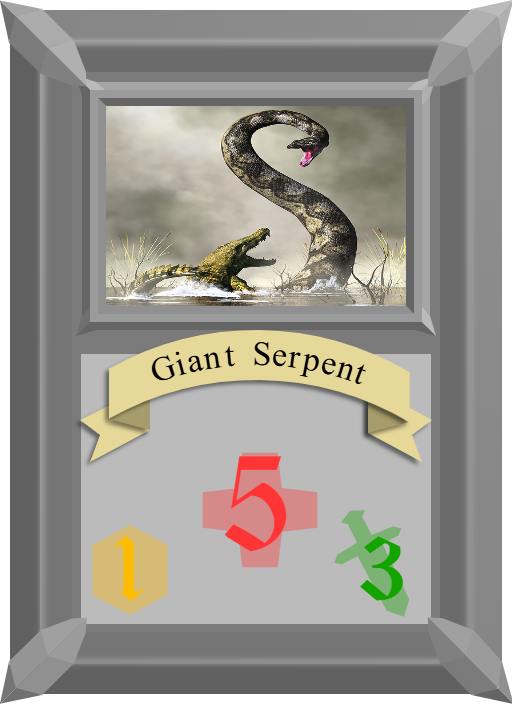
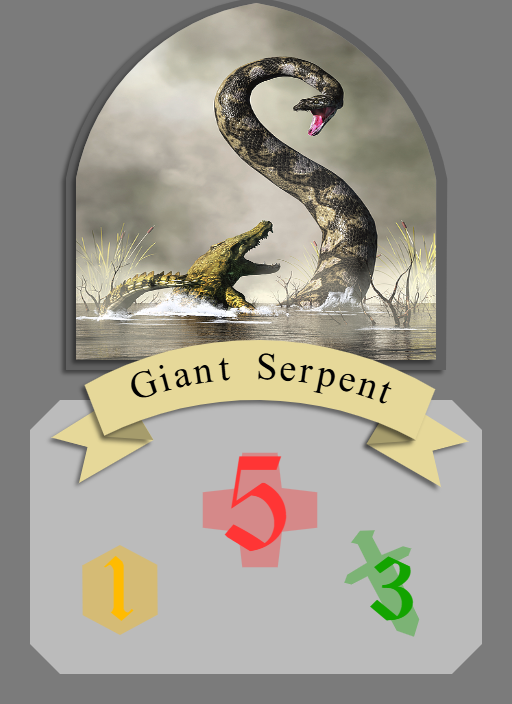
added logic to throw cards in the table in the server and overall texture and geometry updates

diff --git a/backend/server.js b/backend/server.js
@@ -66,12 +66,6 @@ async function verifyToken(req, res, next) {//currently unused
 
 
 
-let opponentsQueue = []
-
-let activeMatches = []
-
-
-
 expressServer.post('/login/validatefields/newaccount', async (req, res) => {
     try {
         let messages = []
@@ -175,6 +169,10 @@ expressServer.post('/login/validatefields', async (req, res) => {
 
 
 
+let opponentsQueue = []
+
+let activeMatches = []
+
 function generateCardUuid() {
     return `${activeMatches.length}-${Date.now() + Math.round(Math.random() * 1000000)}-${Math.round(Math.random() * 100)}`
 }
@@ -200,24 +198,40 @@ socketServer.on('connection', (client) => {
 
         if (opponentsQueue.length >= 2) {
             const playersIds = [opponentsQueue.shift(), opponentsQueue.shift()]
+            const matchId = `match-${Date.now()}-${Math.round(Math.random() * 100)}`
             const playersHandCards = [
-                { player: playersIds[0].id, card_id: 'giant_serpent', uuid: generateCardUuid() },
-                { player: playersIds[0].id, card_id: 'wendigo', uuid: generateCardUuid() },
-                { player: playersIds[0].id, card_id: 'shadow_demon', uuid: generateCardUuid() },
-                { player: playersIds[1].id, card_id: 'giant_serpent', uuid: generateCardUuid() },
-                { player: playersIds[1].id, card_id: 'wendigo', uuid: generateCardUuid() },
-                { player: playersIds[1].id, card_id: 'shadow_demon', uuid: generateCardUuid() },
+                { player: playersIds[0].id, card_id: 'giant_serpent', uuid: generateCardUuid(), mana_cost: 1 },
+                { player: playersIds[0].id, card_id: 'wendigo', uuid: generateCardUuid(), mana_cost: 1 },
+                { player: playersIds[0].id, card_id: 'shadow_demon', uuid: generateCardUuid(), mana_cost: 2 },
+                { player: playersIds[1].id, card_id: 'giant_serpent', uuid: generateCardUuid(), mana_cost: 1 },
+                { player: playersIds[1].id, card_id: 'wendigo', uuid: generateCardUuid(), mana_cost: 1 },
+                { player: playersIds[1].id, card_id: 'shadow_demon', uuid: generateCardUuid(), mana_cost: 2 },
             ]
 
             activeMatches.push(
                 {
-                    current_turn_player_id: playersIds[Math.round(Math.random())],
-                    players_hand_cards: playersHandCards,
-                    players_ids: playersIds,
-                    players_lifes: [10, 10],
-                    players_mana_levels: [1, 1],
-                    players_table_cards: null,
-                    match_id: `match-${Date.now()}-${Math.round(Math.random() * 100)}`,
+                    players: [
+                        {
+                            id: playersIds[0].id,
+                            socketId: playersIds[0].socketId,
+                            nickname: playersIds[0].nickname,
+                            life: 10,
+                            mana_level: 1,
+                            hand_cards: playersHandCards.filter(card => card.player == playersIds[0].id),
+                            table_cards: [],
+                        },
+                        {
+                            id: playersIds[1].id,
+                            socketId: playersIds[1].socketId,
+                            nickname: playersIds[1].nickname,
+                            life: 10,
+                            mana_level: 1,
+                            hand_cards: playersHandCards.filter(card => card.player == playersIds[1].id),
+                            table_cards: [],
+                        }
+                    ],
+                    current_turn_player: Math.round(Math.random()),
+                    match_id: matchId,
                     start_time: (new Date()).toISOString(),
                     total_turns_count: 0
                 }
@@ -252,6 +266,33 @@ socketServer.on('connection', (client) => {
     })
 
     client.on('move_request', (request) => {
+        const requestMatch = activeMatches.find(match => match.players.some(player => player.socketId == client.id))
+
+        try {
+            if (requestMatch) {
+                const player = requestMatch.players.find(player => player.socketId == client.id)
+                const card = player.hand_cards.find(card => card.uuid == request.card.uuid)
+
+                if (request.action == 'throw_onto_table') {
+                    if (player.mana_level >= card.mana_cost) {
+                        socketServer.to(player.socketId).emit('card_update', { uuid: card.uuid })
+
+                        player.table_cards.push(card)
+                        player.hand_cards.splice(player.hand_cards.indexOf(card), 1)
+                    }
+                    else {
+                        client.emit('chat', { sender: 'Server', color: '#ffee00', text: 'You dont have enough mana' })
+                    }
+                }
+            }
+            else {
+                client.emit('chat', { sender: 'Server', color: '#ffee00', text: 'You are not battling with anyone' })
+            }
+        }
+        catch (error) {
+            client.emit('chat', { sender: 'Server', color: '#ff5500', text: `unexpected error in the move request channel: ${error}` })
+            console.log(error)
+        }
     })
 
 

diff --git a/frontend/app/game/socket_channels.ts b/frontend/app/game/socket_channels.ts
@@ -1,15 +1,15 @@
-import { Scene, TextureLoader, Group, Object3D, Object3DEventMap } from 'three'
+import { Scene, TextureLoader } from 'three'
 import { Socket } from 'socket.io-client'
 import { GLTFLoader } from 'three/examples/jsm/Addons.js'
 
 export type matchObject = {
     hand_cards: { card_id: string, uuid: string }[],
-    table_cards: { card_id: string }[] | null,
+    table_cards: { card_id: string, uuid: string }[],
     life: number,
     mana_level: number,
     opponent: {
         hand_cards: number,
-        table_cards: number | null,
+        table_cards: number,
         id: string,
         nickname: string,
         life: number,
@@ -21,6 +21,12 @@ type chatMessage = {
     sender: string,
     color: string,
     text: string
+}
+
+type cardStateUpdate = {
+    uuid: string | null,
+    place: 'table' | 'hand',
+    side: 'self' | 'opponent'
 }
 
 
@@ -109,4 +115,9 @@ export function receiveAndDisplayMatchObject(match: matchObject, scene: Scene, l
         table.children[1].children[1].material.map = selfPlayerIcon
         table.children[0].children[1].material.map = opponentPlayerIcon
     }
+}
+
+
+
+export function receiveCardUpdate(update: cardStateUpdate) {
 }

diff --git a/frontend/app/game/page.tsx b/frontend/app/game/page.tsx
@@ -7,7 +7,6 @@ import { GLTFLoader } from 'three/examples/jsm/Addons.js'
 import { io } from 'socket.io-client'
 import * as channels from './socket_channels'
 import { setHandCardPositions, resetScene } from './scene_functions'
-import { selectAnimation } from './animations'
 import { EffectComposer } from 'three/addons/postprocessing/EffectComposer.js'
 import { RenderPass } from 'three/addons/postprocessing/RenderPass.js'
 import { OutlinePass } from 'three/addons/postprocessing/OutlinePass.js'
@@ -85,6 +84,7 @@ export default function GameScreen() {
 
         socket.on('chat', channels.receiveChatMessage)
         socket.on('build_match', (match: channels.matchObject) => { channels.receiveAndDisplayMatchObject(match, scene, loader, textureLoader) })
+        socket.on('card_udate', channels.receiveCardUpdate)
 
 
 

diff --git a/README.md b/README.md
@@ -2,7 +2,7 @@
 <br />
 <br />
 
-<h2 align="center">A Huge, Full Stack Project</h2>
+<h2 align="center">A Full Stack Project</h2>
 
 <p align="center">Ethercraft is a complete fantasy game about duels with an opponent in a board with cards (and a tavern background scenery), in a very RPG style, that was heavily inspired by the original game <a style="color: aqua; font-weight: bold" href="https://hearthstone.blizzard.com/en-us">HEARTHSTONE</a> by Blizzard Entertainment.</p>
 <br />